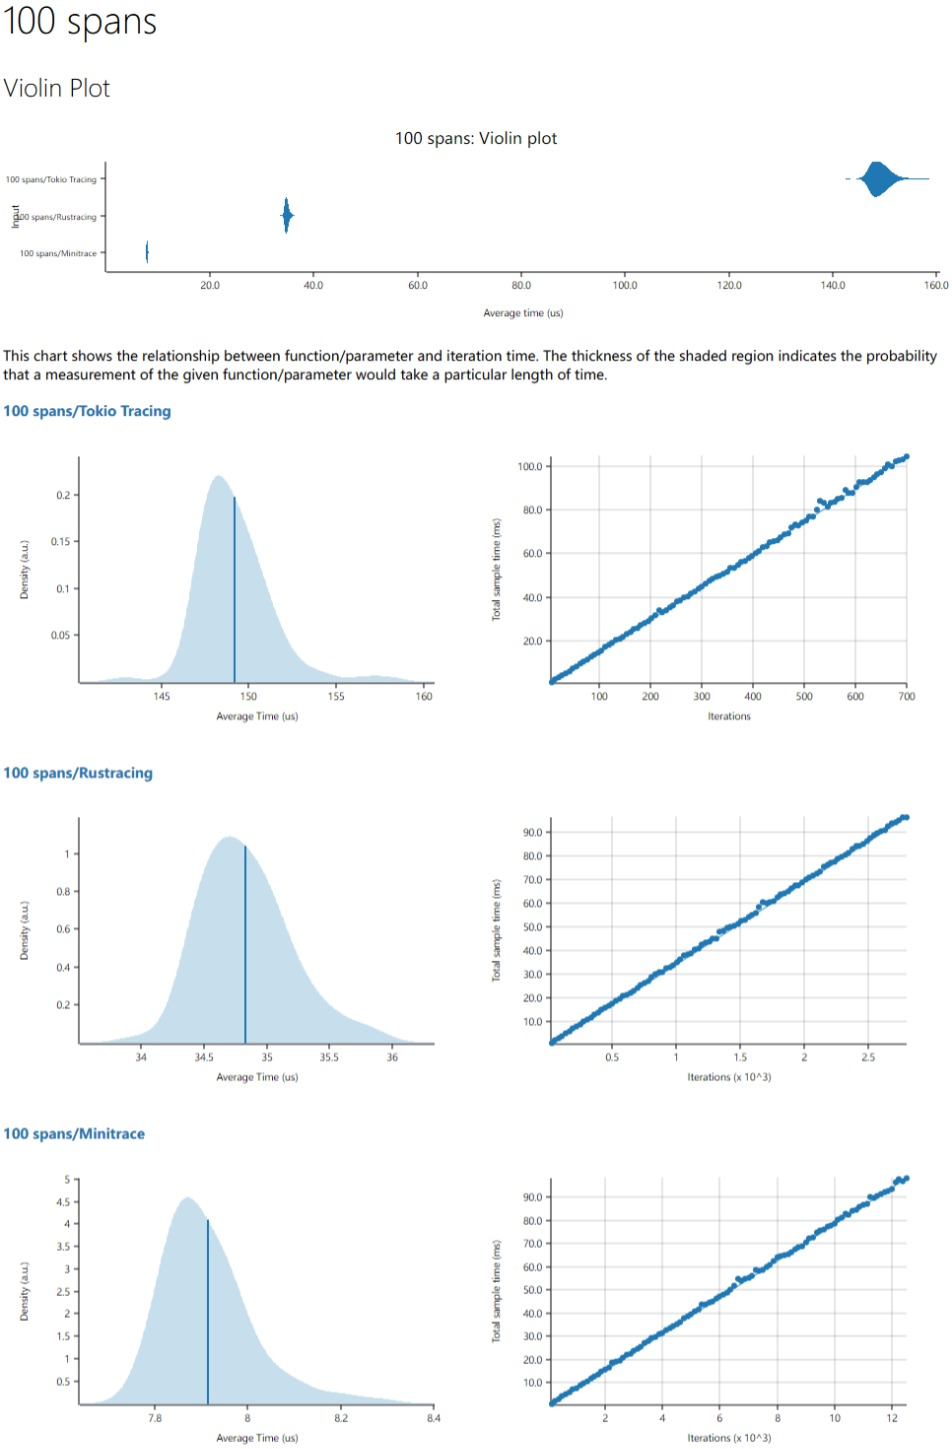
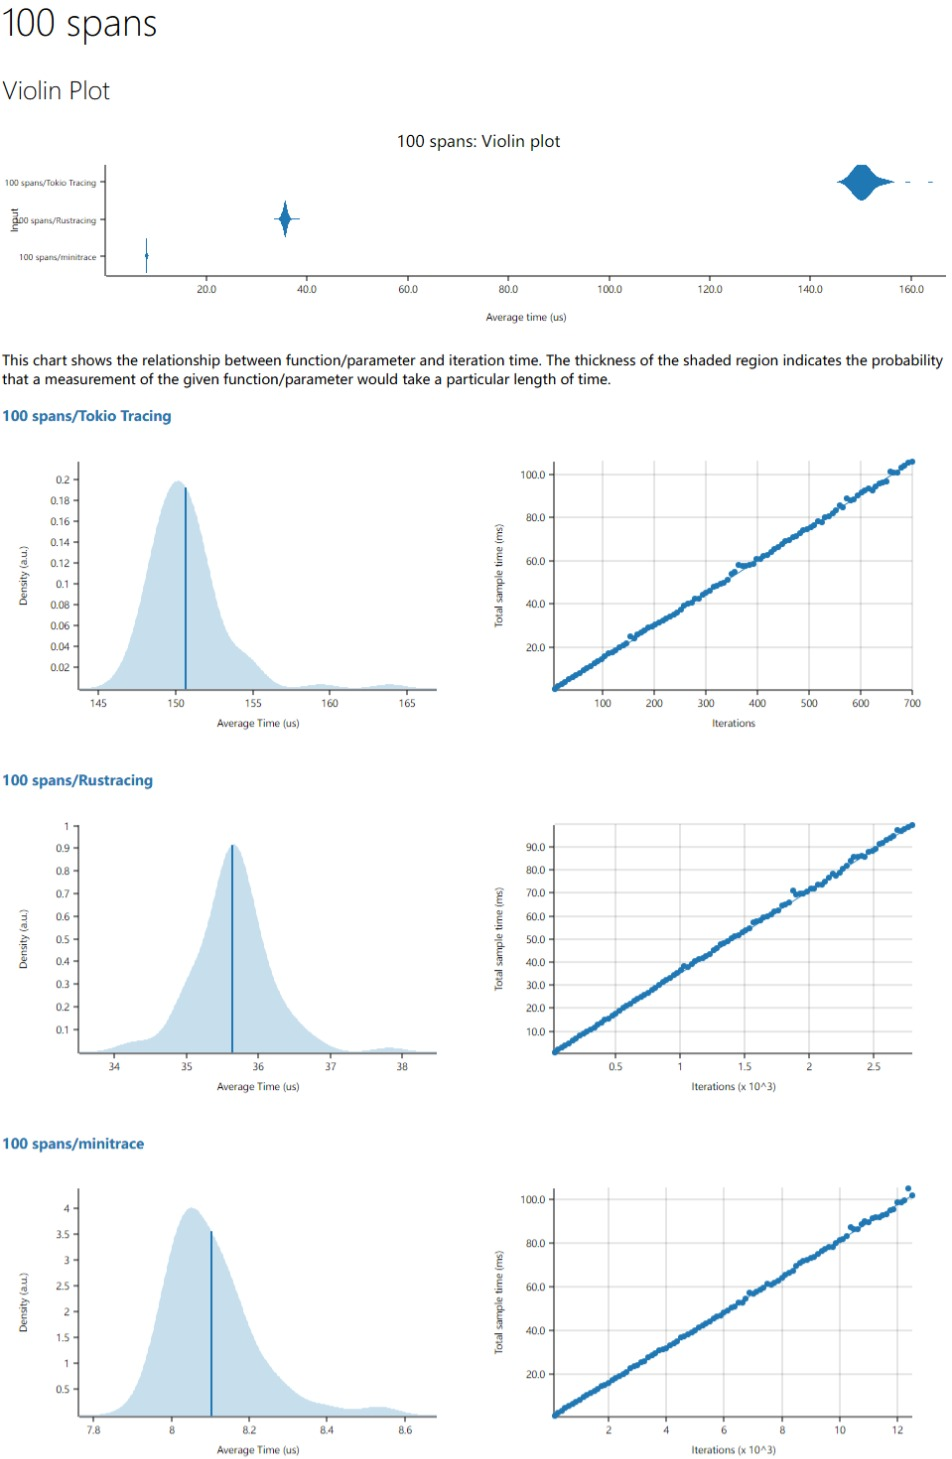
update benchmark result

diff --git a/minitrace/benches/compare.rs b/minitrace/benches/compare.rs
@@ -71,7 +71,7 @@ fn tracing_comparison(c: &mut Criterion) {
 
     bgroup.bench_function("Tokio Tracing", |b| b.iter(opentelemetry_harness));
     bgroup.bench_function("Rustracing", |b| b.iter(rustracing_harness));
-    bgroup.bench_function("Minitrace", |b| b.iter(minitrace_harness));
+    bgroup.bench_function("minitrace", |b| b.iter(minitrace_harness));
 
     bgroup.finish();
 }

diff --git a/README.md b/README.md
@@ -61,6 +61,10 @@ Benchmark platform is `Intel(R) Xeon(R) CPU E5-2630 v4 @ 2.20GHz` on CentOS 7.
 
 ```sh
 > cargo criterion
+
+100 spans/Tokio Tracing   time:   [152.47 us 153.10 us 153.91 us]
+100 spans/Rustracing      time:   [36.523 us 37.078 us 37.809 us]
+100 spans/minitrace       time:   [8.2892 us 8.4474 us 8.6355 us]
 ```
 
 ![Benchmark](img/benchmark.jpeg)
